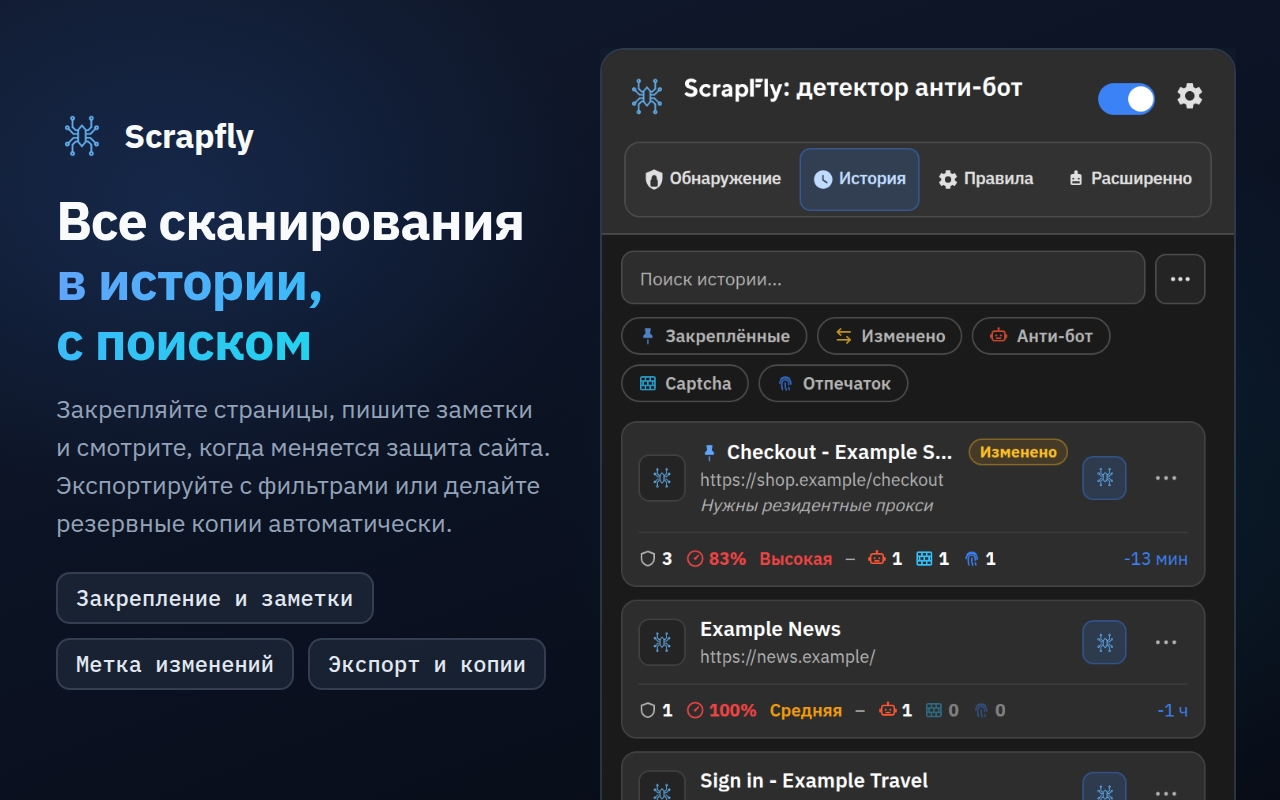
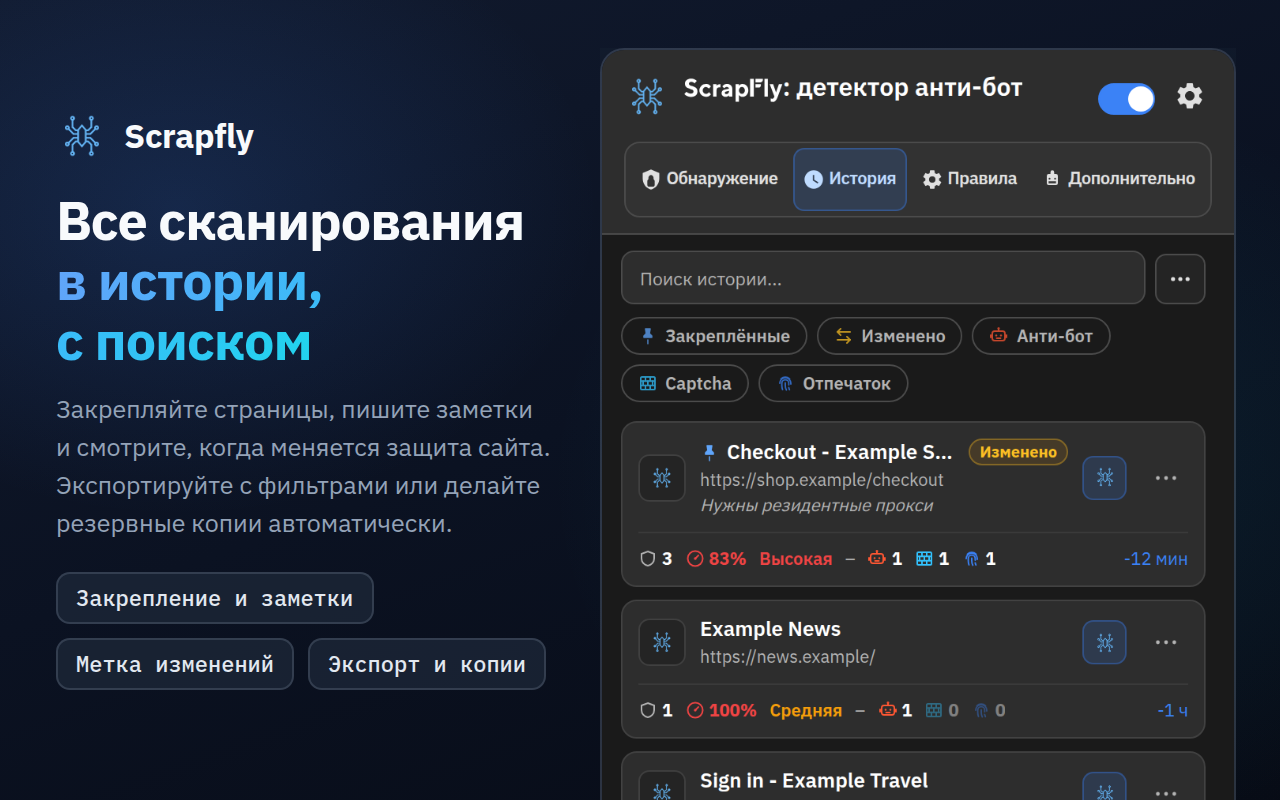
fix(i18n): Russian Advanced tab is «Дополнительно»
«Расширенно» read oddly; the two strings that name the tab follow, as do the
Russian README, the store listing text and the store screenshots (regenerated
from the real popup; the longer label fits the tab bar).

Changed region(s): [[0.5, 0.1875, 0.9375, 0.2812]]

diff --git a/docs/README.ru.md b/docs/README.ru.md
@@ -48,7 +48,7 @@ Scrapfly Anti-bot Detector — бесплатное расширение для 
     <td width="50%"><a href="../assets/store-screenshots/ru/03-rules-1280x800.png"><img src="../assets/store-screenshots/ru/03-rules-1280x800.png" alt="Вкладка «Правила» с поиском по Cloudflare: карточки детекторов с категорией, методами обнаружения, версией и переключателем" width="100%"></a></td>
   </tr>
   <tr>
-    <td width="50%"><a href="../assets/store-screenshots/ru/04-advanced-tools-1280x800.png"><img src="../assets/store-screenshots/ru/04-advanced-tools-1280x800.png" alt="Вкладка «Расширенно» с инструментами для Google reCAPTCHA: получить селектор, извлечь ключ сайта и изучить callback-функции" width="100%"></a></td>
+    <td width="50%"><a href="../assets/store-screenshots/ru/04-advanced-tools-1280x800.png"><img src="../assets/store-screenshots/ru/04-advanced-tools-1280x800.png" alt="Вкладка «Дополнительно» с инструментами для Google reCAPTCHA: получить селектор, извлечь ключ сайта и изучить callback-функции" width="100%"></a></td>
     <td width="50%"><a href="../assets/store-screenshots/ru/05-settings-1280x800.png"><img src="../assets/store-screenshots/ru/05-settings-1280x800.png" alt="Настройки с открытым списком языков: 22 языка интерфейса с флагами" width="100%"></a></td>
   </tr>
 </table>
@@ -147,7 +147,7 @@ Audio · Battery API · Canvas · Clipboard API · Crypto · CSS · Device Orien
 
 **Обновить** загружает официальные детекторы из последнего релиза этого репозитория. Отредактированный вами встроенный детектор никогда не заменяется без вопроса: вы выбираете между своей версией и новой. Если вы удалили встроенный детектор, **Восстановить официальные детекторы** в том же меню вернёт его. Обновление детекторов можно также запускать по расписанию (**Настройки → Общие**).
 
-### Расширенно
+### Дополнительно
 
 Практические инструменты для защит, которые использует страница. Защита получает свои инструменты, когда она обнаружена с уверенностью выше 50%; этот порог меняется в **Настройки → Обнаружение → Расширенные инструменты**. Если на странице ничего не подходит, вкладка сообщает об этом, указывает порог (или называет защиту, найденную ниже него) и показывает 25 поддерживаемых защит.
 
@@ -167,7 +167,7 @@ Audio · Battery API · Canvas · Clipboard API · Crypto · CSS · Device Orien
 | Aliyun Captcha 2.0, Captcha.eu, Capy Puzzle Captcha, Dingxiang Captcha, Friendly Captcha, MTCaptcha, NetEase Yidun, Prosopo Procaptcha, QCloud Captcha, Shumei Captcha, Yandex SmartCaptcha | Извлечь SiteKey · Анализ скриптов |
 | AliExpress CAPTCHA, Basilisk Captcha, Binance Captcha | Анализ скриптов |
 
-Результаты и захваты хранятся 30 минут в **Расширенно → История**, где их можно фильтровать по сайту, вендору и инструменту, открывать снова и экспортировать.
+Результаты и захваты хранятся 30 минут в **Дополнительно → История**, где их можно фильтровать по сайту, вендору и инструменту, открывать снова и экспортировать.
 
 ### Настройки
 

diff --git a/CHANGELOG.md b/CHANGELOG.md
@@ -7,6 +7,10 @@ Each line says what changed for the user. Technical detail lives in the commit h
 
 ## [Unreleased]
 
+### Changed
+
+- Russian: the Advanced tab is now called «Дополнительно».
+
 ### Fixed
 
 - Rules: translating an official rule no longer marks it as edited, so updates still install without asking and keep your translations (also for rules translated in 3.0.6); Reset to official keeps them too.
